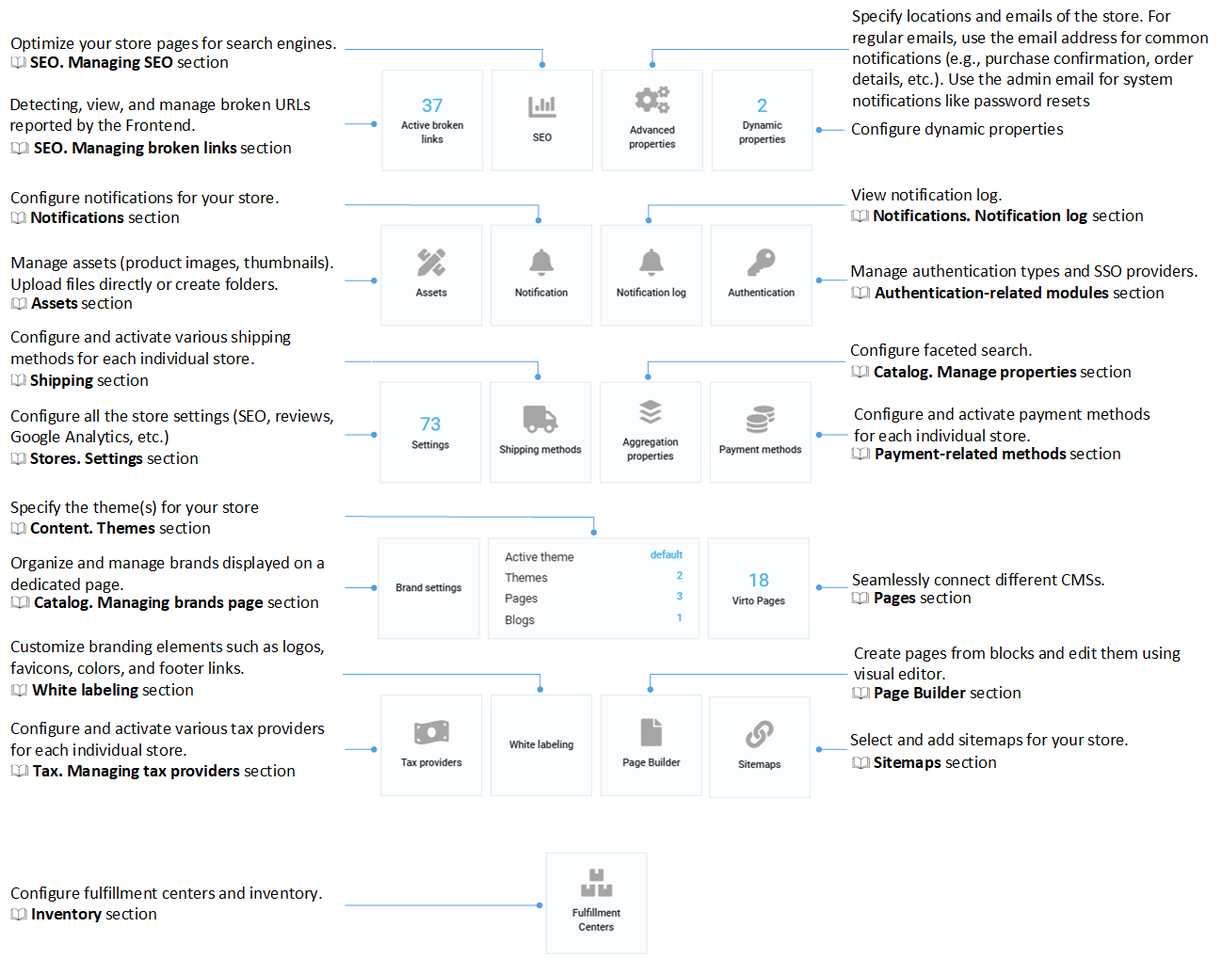
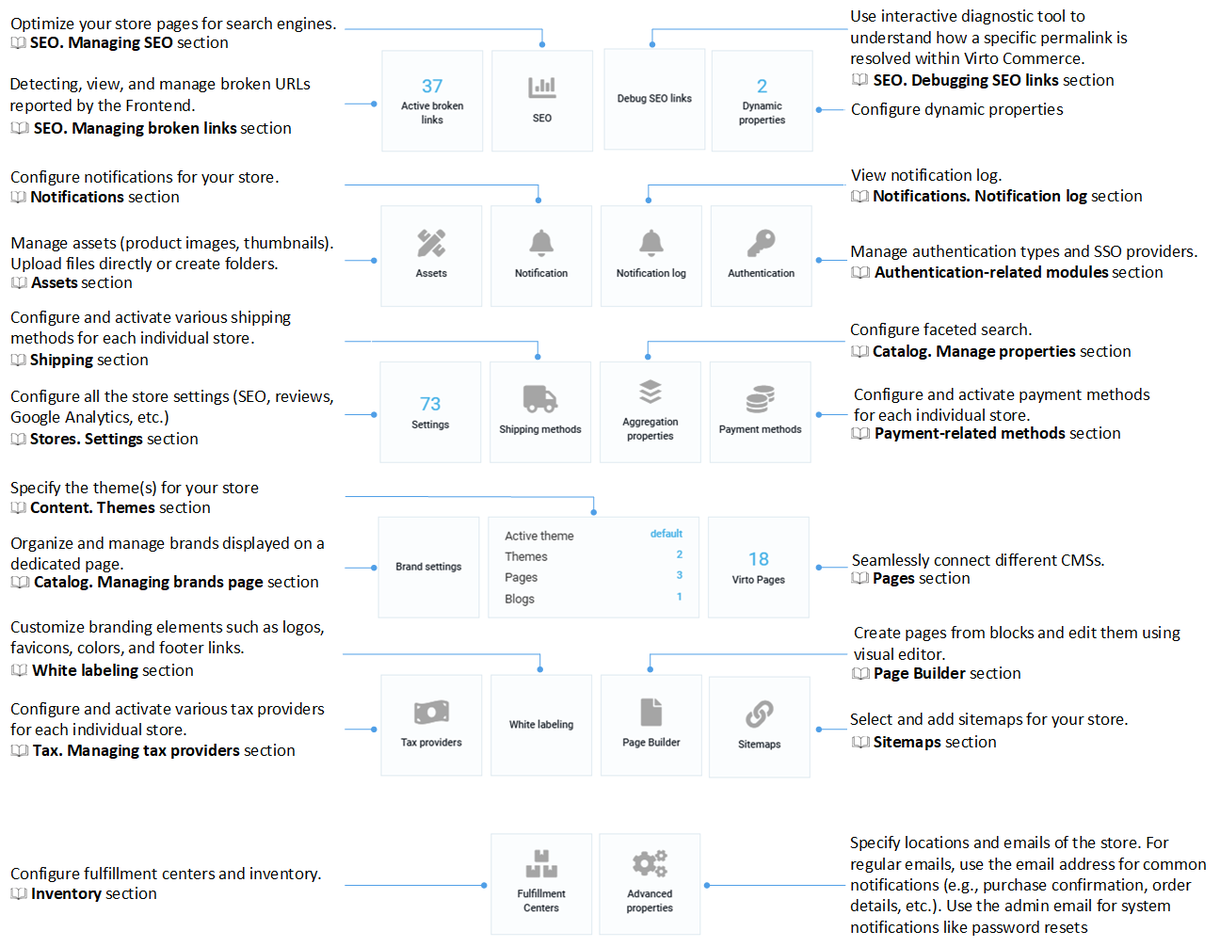
Added: Sprint 21 updates

diff --git a/platform/developer-guide/docs/GraphQL-Storefront-API-Reference-xAPI/Cart/overview.md b/platform/developer-guide/docs/GraphQL-Storefront-API-Reference-xAPI/Cart/overview.md
@@ -9,7 +9,7 @@ The **xCart** module provides high performance API for shopping cart with the fo
 
 | Queries                                                             	| Objects                      	| Mutations                                                               	|
 |--------------------------------------------------------------------	|------------------------------	|--------------------------------------------------------------------------	|
-| [Cart](queries/cart.md)<br> [Carts](queries/carts.md)<br> [wishlist](queries/wishlist.md)<br> [wishlists](queries/wishlists.md)<br> [validateCoupon](queries/validate-coupon.md) <br> [productConfiguration](queries/productConfiguration.md) <br> [configurationItems](queries/configurationItems.md) <br> [getSavedForLater](queries/getSavedForLater.md)| [CartType](objects/cart-type.md)<br> [CartConnection](objects/cart-connection.md)<br> [CartEdge](objects/cart-edge.md)<br> [CartShipmentItemType](objects/cart-shipment-item-type.md)<br> [CartAddressType](objects/cart-address-type.md)<br> [MoneyType](objects/money-type.md)<br> [CurrencyType](objects/currency-type.md)<br> [TaxDetailType](objects/tax-detail-type.md)<br> [ShipmentType](objects/shipment-type.md)<br> [ShipmentMethodType](objects/shipping-method-type.md)<br> [PaymentType](objects/payment-type.md)<br> [PaymentMethodType](objects/payment-method-type.md)<br> [DiscountType](objects/discount-type.md)<br> [GiftItemType](objects/gift-item-type.md)<br> [CouponType](objects/coupon-type.md)<br> [DynamicPropertyType](objects/dynamic-property-type.md)<br> [DynamicPropertyValueType](objects/dynamic-property-value-type.md)<br> [LineItemType](objects/line-item-type.md)<br> [DictionaryItemType](objects/dictionary-item-type.md)<br> [DictionaryItemConnection](objects/dictionary-item-connection.md)<br> [ValidationErrorType](objects/validation-error-type.md)<br> [ErrorParameterType](objects/error-parameter-type.md) <br> [CartConfigurationItemType](objects/CartConfigurationItemType.md) <br> [ConfigurationItemsResponseType](objects/ConfigurationItemsResponseType.md) <br> [ConfigurationQueryResponseType](objects/ConfigurationQueryResponseType.md) <br> [ConfigurationSectionType](objects/ConfigurationSectionType.md) <br> [ConfigurationLineItemType](objects/ConfigurationLineItemType.md) <br> [ConfigurationSectionInput](objects/ConfigurationSectionInput.md) <br> [ConfigurableProductOptionInput](objects/ConfigurableProductOptionInput.md) <br> [CartWithListType](objects/CartWithListType.md)  |[addItem](mutations/add-item.md)<br> [clearCart](mutations/clear-cart.md)<br> [selectCartItems](mutations/selectCartItems.md)<br> [unselectCartItems](mutations/unselectCartItems.md)<br> [selectAllCartItems](mutations/selectAllCartItems.md)<br> [unselectAllCartItems](mutations/unselectAllCartItems.md)<br> [changeComment](mutations/change-comment.md)<br> [changeCartItemPrice](mutations/change-cart-item-price.md)<br> [changeCartItemQuantity](mutations/change-cart-item-quantity.md)<br> [changeCartItemComment](mutations/change-cart-item-comment.md)<br> [removeCartItem](mutations/remove-cart-item.md)<br> [addCoupon](mutations/add-coupon.md)<br> [removeCoupon](mutations/remove-coupon.md)<br> [removeShipment](mutations/remove-shipment.md)<br> [addOrUpdateCartShipment](mutations/add-or-update-cart-shipment.md)<br> [addOrUpdateCartPayment](mutations/add-or-update-cart-payment.md)<br> [mergeCart](mutations/merge-cart.md)<br> [removeCart](mutations/remove-cart.md)<br> [clearShipments](mutations/clear-shipments.md)<br>	[clearPayments](mutations/clear-payments.md)<br> [updateCartDynamicProperties](mutations/update-cart-payment-dynamic-properties.md)<br> [updateCartItemDynamicProperties](mutations/update-cart-item-dynamic-properties.md)<br> [updateCartShipmentDynamicProperties](mutations/update-cart-shipment-dynamic-properties.md)<br> [updateCartPaymentDynamicProperties](mutations/update-cart-payment-dynamic-properties.md)<br> [addCartAddress](mutations/add-cart-address.md)<br> [addWishListBulkItem](mutations/add-wish-list-bulk-item.md)<br> [changeCartConfiguredItem](mutations/changeCartConfiguredItem.md) <br> [createConfiguredLineItem](mutations/createConfiguredLineItem.md) <br> [moveToSavedForLater](mutations/moveToSavedForLater.md) <br> [moveFromSavedForLater](mutations/moveFromSavedForLater.md)| 
+| [Cart](queries/cart.md)<br> [Carts](queries/carts.md)<br> [wishlist](queries/wishlist.md)<br> [wishlists](queries/wishlists.md)<br> [validateCoupon](queries/validate-coupon.md) <br> [productConfiguration](queries/productConfiguration.md) <br> [configurationItems](queries/configurationItems.md) <br> [getSavedForLater](queries/getSavedForLater.md)| [CartType](objects/cart-type.md)<br> [CartConnection](objects/cart-connection.md)<br> [CartEdge](objects/cart-edge.md)<br> [CartShipmentItemType](objects/cart-shipment-item-type.md)<br> [CartAddressType](objects/cart-address-type.md)<br> [MoneyType](objects/money-type.md)<br> [CurrencyType](objects/currency-type.md)<br> [TaxDetailType](objects/tax-detail-type.md)<br> [ShipmentType](objects/shipment-type.md)<br> [ShipmentMethodType](objects/shipping-method-type.md)<br> [PaymentType](objects/payment-type.md)<br> [PaymentMethodType](objects/payment-method-type.md)<br> [DiscountType](objects/discount-type.md)<br> [GiftItemType](objects/gift-item-type.md)<br> [CouponType](objects/coupon-type.md)<br> [DynamicPropertyType](objects/dynamic-property-type.md)<br> [DynamicPropertyValueType](objects/dynamic-property-value-type.md)<br> [LineItemType](objects/line-item-type.md)<br> [DictionaryItemType](objects/dictionary-item-type.md)<br> [DictionaryItemConnection](objects/dictionary-item-connection.md)<br> [ValidationErrorType](objects/validation-error-type.md)<br> [ErrorParameterType](objects/error-parameter-type.md) <br> [CartConfigurationItemType](objects/CartConfigurationItemType.md) <br> [ConfigurationItemsResponseType](objects/ConfigurationItemsResponseType.md) <br> [ConfigurationQueryResponseType](objects/ConfigurationQueryResponseType.md) <br> [ConfigurationSectionType](objects/ConfigurationSectionType.md) <br> [ConfigurationLineItemType](objects/ConfigurationLineItemType.md) <br> [ConfigurationSectionInput](objects/ConfigurationSectionInput.md) <br> [ConfigurableProductOptionInput](objects/ConfigurableProductOptionInput.md) <br> [CartWithListType](objects/CartWithListType.md) <br> [InputUpdateCartQuantityItem](objects/InputUpdateCartQuantityItem.md)  |[addItem](mutations/add-item.md)<br> [clearCart](mutations/clear-cart.md)<br> [selectCartItems](mutations/selectCartItems.md)<br> [unselectCartItems](mutations/unselectCartItems.md)<br> [selectAllCartItems](mutations/selectAllCartItems.md)<br> [unselectAllCartItems](mutations/unselectAllCartItems.md)<br> [changeComment](mutations/change-comment.md)<br> [changeCartItemPrice](mutations/change-cart-item-price.md)<br> [changeCartItemQuantity](mutations/change-cart-item-quantity.md)<br> [changeCartItemComment](mutations/change-cart-item-comment.md)<br> [removeCartItem](mutations/remove-cart-item.md)<br> [addCoupon](mutations/add-coupon.md)<br> [removeCoupon](mutations/remove-coupon.md)<br> [removeShipment](mutations/remove-shipment.md)<br> [addOrUpdateCartShipment](mutations/add-or-update-cart-shipment.md)<br> [addOrUpdateCartPayment](mutations/add-or-update-cart-payment.md)<br> [mergeCart](mutations/merge-cart.md)<br> [removeCart](mutations/remove-cart.md)<br> [clearShipments](mutations/clear-shipments.md)<br>	[clearPayments](mutations/clear-payments.md)<br> [updateCartDynamicProperties](mutations/update-cart-payment-dynamic-properties.md)<br> [updateCartItemDynamicProperties](mutations/update-cart-item-dynamic-properties.md)<br> [updateCartShipmentDynamicProperties](mutations/update-cart-shipment-dynamic-properties.md)<br> [updateCartPaymentDynamicProperties](mutations/update-cart-payment-dynamic-properties.md)<br> [addCartAddress](mutations/add-cart-address.md)<br> [addWishListBulkItem](mutations/add-wish-list-bulk-item.md)<br> [changeCartConfiguredItem](mutations/changeCartConfiguredItem.md) <br> [createConfiguredLineItem](mutations/createConfiguredLineItem.md) <br> [moveToSavedForLater](mutations/moveToSavedForLater.md) <br> [moveFromSavedForLater](mutations/moveFromSavedForLater.md) <br> [updateCartQuantity](mutations/updateCartQuantity.md)| 
 
 [![Source code](media/source_code.png)](https://github.com/VirtoCommerce/vc-module-x-cart/releases)
 

diff --git a/platform/user-guide/docs/platform-settings.md b/platform/user-guide/docs/platform-settings.md
@@ -1,0 +1,80 @@
+# Platform Settings
+
+The **Platform settings** section contains global configuration options that define how the Virto Commerce Platform behaves at the system level.
+These settings are organized into logical categories:
+
+* [General](#general).
+* [Security](#security).
+* [Setup](#setup).
+* [User interface](#user-interface).
+* [User profile](#user-profile).
+
+## General
+
+The **General** group defines basic Platform-level parameters such as language configuration and environment identification.
+
+| Setting              | Description                                                                                                                 |
+|----------------------|-----------------------------------------------------------------------------------------------------------------------------|
+| **Languages**        | Lists the available languages supported by the Platform. These can be used for the admin interface or content localization. |
+| **Environment name** | Identifies the current Platform environment (for example, **Demo**, **QA**). This name will help distinguish environments.  |
+
+
+## Security
+
+The **Security** group manages user account policies, token behavior, and access control lists.
+
+| Setting                             | Description                                                                                                                        |
+|-------------------------------------|------------------------------------------------------------------------------------------------------------------------------------|
+| **Account statuses**                | Defines possible account states (e.g., **Approved**, **Deleted**, **New**, **Rejected**).                                          |
+| **Account types**                   | Lists available account categories, such as **Administrator**, **Customer**, **Manager**.                                          |
+| **Cron for the tokens prune job**   | Specifies the schedule (CRON expression) for automatic cleanup of expired tokens.                                                  |
+| **Default account status**          | Sets the initial status assigned to newly created accounts.                                                                        |
+| **Default account type**            | Defines the default type for new user accounts.                                                                                    |
+| **Default external account status** | Sets the default status for accounts created via external identity providers.                                                      |
+| **Prune expired tokens**            | Enables automatic deletion of expired tokens to maintain security and database hygiene.                                            |
+| **Black list**                      | Lists file extensions prohibited from upload by the Platform (additionally to **FileExtensionsBlackList** in **appsettings.json**) |
+| **White list**                      | Lists fle extensions permitted for upload by the Platform (additionally to **FileExtensionsWhiteList** in **appsettings.json**)    |
+
+
+## Setup
+
+The **Setup** group controls technical parameters related to the Platform installation, module management, and telemetry.
+
+| Setting                       | Description                                                                                     |
+|-------------------------------|-------------------------------------------------------------------------------------------------|
+| **Modules installed**         | Indicates that the modules are automatically installed .                                        |
+| **Modules autoinstall state** | Indicates the current state of autoinstall modules wizard.                                      |
+| **Sample data state**         | Shows the current state of sample data wizard.                                                  |
+| **Send diagnostic data**      | Allows the Platform to send diagnostic information to improve system stability and performance. |
+| **Current setup step**        | Displays the current step in setup wizard.                                                      |
+
+
+## User interface
+
+The **User interface** settings store a JSON file with manager UI personalization data. The file can be automatically formatted, and detailed error messages appear if issues are detected.
+
+![User interface JSON](media/user-interface-settings.gif)
+
+## User profile
+
+The **User profile** group allows users to personalize their experience in the admin interface.
+
+| Setting                               | Description                                                                                                    |
+|---------------------------------------|----------------------------------------------------------------------------------------------------------------|
+| **Full date threshold**               | Defines how long ago a date can be shown in the **time ago** format before switching to the full date display. |
+| **Full date threshold unit**          | Defines the unit for the date threshold (**days**, **hours**).                                                 |
+| **Language**                          | Specifies the default language for the user interface.                                                         |
+| **Persisted state of the main menu**  | Determines whether the left navigation menu is collapsed or expanded.                                          |
+| **Regional format**                   | Determines date, time, and number formatting according to locale conventions.                                  |
+| **Show time meridian**                | Enables display of AM/PM time format.                                                                          |
+| **Time zone**                         | Sets the user’s preferred time zone for displaying time-sensitive data.                                        |
+| **Use time ago format when possible** | Enables relative time formatting (“5 minutes ago”) for improved readability.                                   |
+
+<br>
+<br>
+********
+
+<div style="display: flex; justify-content: space-between;">
+    <a href="../backup-and-restore">← Backup and restore </a>
+    <a href="../ada-compliance">ADA compliance →</a>
+</div>

diff --git a/platform/developer-guide/docs/GraphQL-Storefront-API-Reference-xAPI/Cart/mutations/updateCartQuantity.md b/platform/developer-guide/docs/GraphQL-Storefront-API-Reference-xAPI/Cart/mutations/updateCartQuantity.md
@@ -1,0 +1,62 @@
+# updateCartQuantity ==~mutation~==
+
+This mutation updates the quantity of one or more items in a specific shopping cart.
+
+## Arguments
+
+The `InputUpdateCartQuantity` type represents the input object used to specify which cart items should have their quantities updated.
+
+| Field                                     | Description                                                                                                               |
+| ----------------------------------------- | ------------------------------------------------------------------------------------------------------------------------- |
+| `cartId` ==String==                       | The ID of the cart whose item quantities will be updated.                                                                 |
+| `storeId` ==String!==                     | The ID of the store associated with the cart.                                                                             |
+| `cartName` ==String==                     | The name of the cart.                                                                                                     |
+| `userId` ==String!==                      | The ID of the user who owns the cart.                                                                                     |
+| `currencyCode` ==String==                 | The currency code for the cart.                                                                                           |
+| `cultureName` ==String==                  | The culture or language associated with the cart.                                                                         |
+| `cartType` ==String==                     | The type of the cart.                                                                                                     |
+| `items` ==[InputUpdateCartQuantityItem](../objects/InputUpdateCartQuantityItem.md)== | A list of cart items and their new quantities. Each item specifies which product line to update and the desired quantity. |
+
+## Possible returns
+
+| Possible return                       | Description                                                |
+| ------------------------------------- | ---------------------------------------------------------- |
+| [`CartType`](../objects/cart-type.md) | The properties and fields associated with a shopping cart. |
+
+=== "Mutation"
+
+    ```json linenums="1"
+    mutation updateCartQuantity($command: InputUpdateCartQuantity!) {
+    updateCartQuantity(command: $command) {
+        id
+        items {
+        id
+        productId
+        quantity
+        extendedPrice
+        }
+    }
+    }
+    ```
+
+=== "Variables"
+
+    ```json linenums="1"
+    "command": {
+    "cartId": "e6a7d5af-6378-44a6-b645-af9ecf702c05",
+    "storeId": "B2B-Store",
+    "userId": "c50e5237-8a4c-41fe-b878-8e5a72390a08",
+    "currencyCode": "USD",
+    "cultureName": "en-US",
+    "items": [
+        {
+        "id": "9c42e7de-4b53-4b65-bbb2-8a7f327321ae",
+        "quantity": 3
+        },
+        {
+        "id": "1cbb8c57-5a11-47c8-996d-fd48e75f022f",
+        "quantity": 1
+        }
+    ]
+    }
+    ```

diff --git a/platform/user-guide/docs/seo/debugging-seo-links.md b/platform/user-guide/docs/seo/debugging-seo-links.md
@@ -1,0 +1,40 @@
+# Debug SEO Links
+
+The SEO module allows you to analyze and debug permalink resolutions. The **Debug SEO Links** widget helps you understand how SEO slugs are processed across different stores and languages, making it easier to identify and resolve configuration or routing issues.
+
+To analyze a slug:
+
+1. Click **Stores** in the main menu.
+1. In the next blade, select your store.
+1. In the store blade, click the **Debug SEO Links** widget.
+1. In the next blade, select a language, enter a slug to analyze, and click **Debug**.
+1. The following blade displays a list of debug stages:
+
+    | **Stage** | **Name**          | **Description**                                                                                           |
+    | --------- | ----------------- | --------------------------------------------------------------------------------------------------------- |
+    | 1         | **Original**      | SEO items found by the resolver. Displays all items from the database, not filtered by store or language. |
+    | 2         | **Filtered**      | SEO items matching the selected store and language rules.                                                 |
+    | 3         | **Scored**        | The system calculates numeric scores and object type priorities.                                          |
+    | 4         | **FilteredScore** | Only SEO items with a positive score are kept.                                                            |
+    | 5         | **Ordered**       | SEO items are ordered by score and object type priority.                                                  |
+    | 6         | **Final**         | The first item with the highest priority is selected as the resolved SEO result.                          |
+
+Click on any stage to view detailed information.
+
+Try our interactive demo to explore key features in action:
+
+<div>
+  <script async src="https://js.storylane.io/js/v2/storylane.js"></script>
+  <div class="sl-embed" style="position:relative;padding-bottom:calc(49.22% + 25px);width:100%;height:0;transform:scale(1)">
+    <iframe loading="lazy" class="sl-demo" src="https://virtocommerce.storylane.io/demo/cufsuttr2ptz?embed=inline" name="sl-embed" allow="fullscreen" allowfullscreen style="position:absolute;top:0;left:0;width:100%!important;height:100%!important;border:1px solid rgba(63,95,172,0.35);box-shadow: 0px 0px 18px rgba(26, 19, 72, 0.15);border-radius:10px;box-sizing:border-box;"></iframe>
+  </div>
+</div>
+
+<br>
+<br>
+********
+
+<div style="display: flex; justify-content: space-between;">
+    <a href="../managing-broken-links">← Managing broken links</a>
+    <a href="../settings">Settings →</a>
+</div>

diff --git a/platform/user-guide/docs/general-guidelines.md b/platform/user-guide/docs/general-guidelines.md
@@ -15,6 +15,27 @@ The Platform's home page shows:
 
 ![Guide](media/platform-dashboard.png)
 
+## Multilingual SEO URLs
+
+This feature allows each localized page in the Virto Commerce Frontend to have a language-specific URL that improves both search engine optimization and user experience.
+
+When a customer visits a multilingual Frontend, URLs automatically adapt to the selected language or region, ensuring that:
+
+* Search engines index the correct localized version of each page.
+* Customers land on the appropriate language version when browsing or sharing links.
+* Switching languages in the Frontend does not disrupt navigation or cause broken links.
+
+The feature is available only for multi-language Frontend configurations.
+
+| Configuration type    | Example URL     | Description                                                                          |
+| --------------------- | ----------------| ------------------------------------------------------------------------------------ |
+| Default language  | `/about-us`         | Used for the default Frontend language when no language code is specified.           |
+| Language-specific | `/{xx}/about-us`    | Includes a two-letter language code, e.g., `/en/about-us`.                           |
+| Region-specific   | `/{xx-XX}/about-us` | Includes both language and region codes, e.g., `/en-US/about-us`, `/en-GB/about-us`. |
+
+
+When a customer changes the language in the Frontend, the permalink is updated in the browser to include the selected culture code (for example, **/en/about-us** --> **/de/über-uns**). The selected language is saved in local storage and automatically applied as the default language for future visits.
+
 
 ## Blades
 

diff --git a/storefront/user-guide/docs/navigation/homepage-layout.md b/storefront/user-guide/docs/navigation/homepage-layout.md
@@ -64,7 +64,7 @@ Each product card displays:
     
     ![Add to cart](../media/add-to-cart.png)
 
-    In some cases, you may want to switch to a simplified **+ / −** interface. If a product has a minimum purchase quantity, clicking the **+** button will add that quantity to the cart. Clicking the **-** button will remove that quantity from the cart.
+    A simplified **+ / −** interface is also available. If a product has a minimum purchase quantity, clicking the **+** button will add that quantity to the cart. Clicking the **-** button will remove that quantity from the cart. The cart updates instantly without unnecessary reloads:
 
     ![Plus-minus](../media/plus-minus.gif)
 

diff --git a/platform/developer-guide/docs/GraphQL-Storefront-API-Reference-xAPI/Cart/objects/InputUpdateCartQuantityItem.md b/platform/developer-guide/docs/GraphQL-Storefront-API-Reference-xAPI/Cart/objects/InputUpdateCartQuantityItem.md
@@ -1,0 +1,10 @@
+# InputUpdateCartQuantityItem ==~object~==
+
+This type represents an item in the shopping cart for which the quantity needs to be updated.
+
+## Fields
+
+| Field                   | Description                                        |
+| ----------------------- | -------------------------------------------------- |
+| `productId` ==String!== | The Id of the product to update.    |
+| `quantity` ==Int!==     | The new quantity to set for the specified product. |

diff --git a/storefront/user-guide/docs/shopping/searching-for-products.md b/storefront/user-guide/docs/shopping/searching-for-products.md
@@ -67,7 +67,9 @@ The barcode scanner provides immediate access to product details, inventory leve
     | **ISBN**    | GTIN-13   | 13 digits (10 digits before January 2007) | Used to identify physical books and e-books globally. |
 
 
+If no search results are found, a notification will appear. You can then reset your search:
 
+![No search results](../media/no-search-results.png){: style="display: block; margin: 0 auto;" }
 
 
 <br>

diff --git a/platform/user-guide/docs/ada-compliance.md b/platform/user-guide/docs/ada-compliance.md
@@ -9,6 +9,6 @@ In the Virto Commerce Platform, zooming and scaling can not be disabled for logi
 ********
 
 <div style="display: flex; justify-content: space-between;">
-    <a href="../backup-and-restore">← Backup and restore </a>
+    <a href="../platform-settings">← Platform settings </a>
     <a href="../managing-content">Managing frontend content →</a>
 </div>

diff --git a/platform/user-guide/docs/seo/settings.md b/platform/user-guide/docs/seo/settings.md
@@ -19,6 +19,6 @@ The settings have been saved.
 ********
 
 <div style="display: flex; justify-content: space-between;">
-    <a href="../managing-broken-links">← Managing broken links</a>
+    <a href="../debugging-seo-links">← Debugging SEO links</a>
     <a href="../../shipstation/overview">ShipStation module overview →</a>
 </div>

diff --git a/platform/user-guide/docs/backup-and-restore.md b/platform/user-guide/docs/backup-and-restore.md
@@ -35,5 +35,5 @@ The system will restore the data from the backup file.
 
 <div style="display: flex; justify-content: space-between;">
     <a href="../view-results-on-frontend">← Viewing results on Frontend </a>
-    <a href="../ada-compliance">ADA compliance →</a>
+    <a href="../platform-settings">Platform settings →</a>
 </div>

diff --git a/platform/user-guide/docs/seo/managing-broken-links.md b/platform/user-guide/docs/seo/managing-broken-links.md
@@ -48,5 +48,5 @@ Try our interactive demo to explore key features in action:
 
 <div style="display: flex; justify-content: space-between;">
     <a href="../../catalog/managing-SEO">← Managing SEO</a>
-    <a href="../settings">Settings →</a>
+    <a href="../debugging-seo-links">Debugging SEO links →</a>
 </div>
